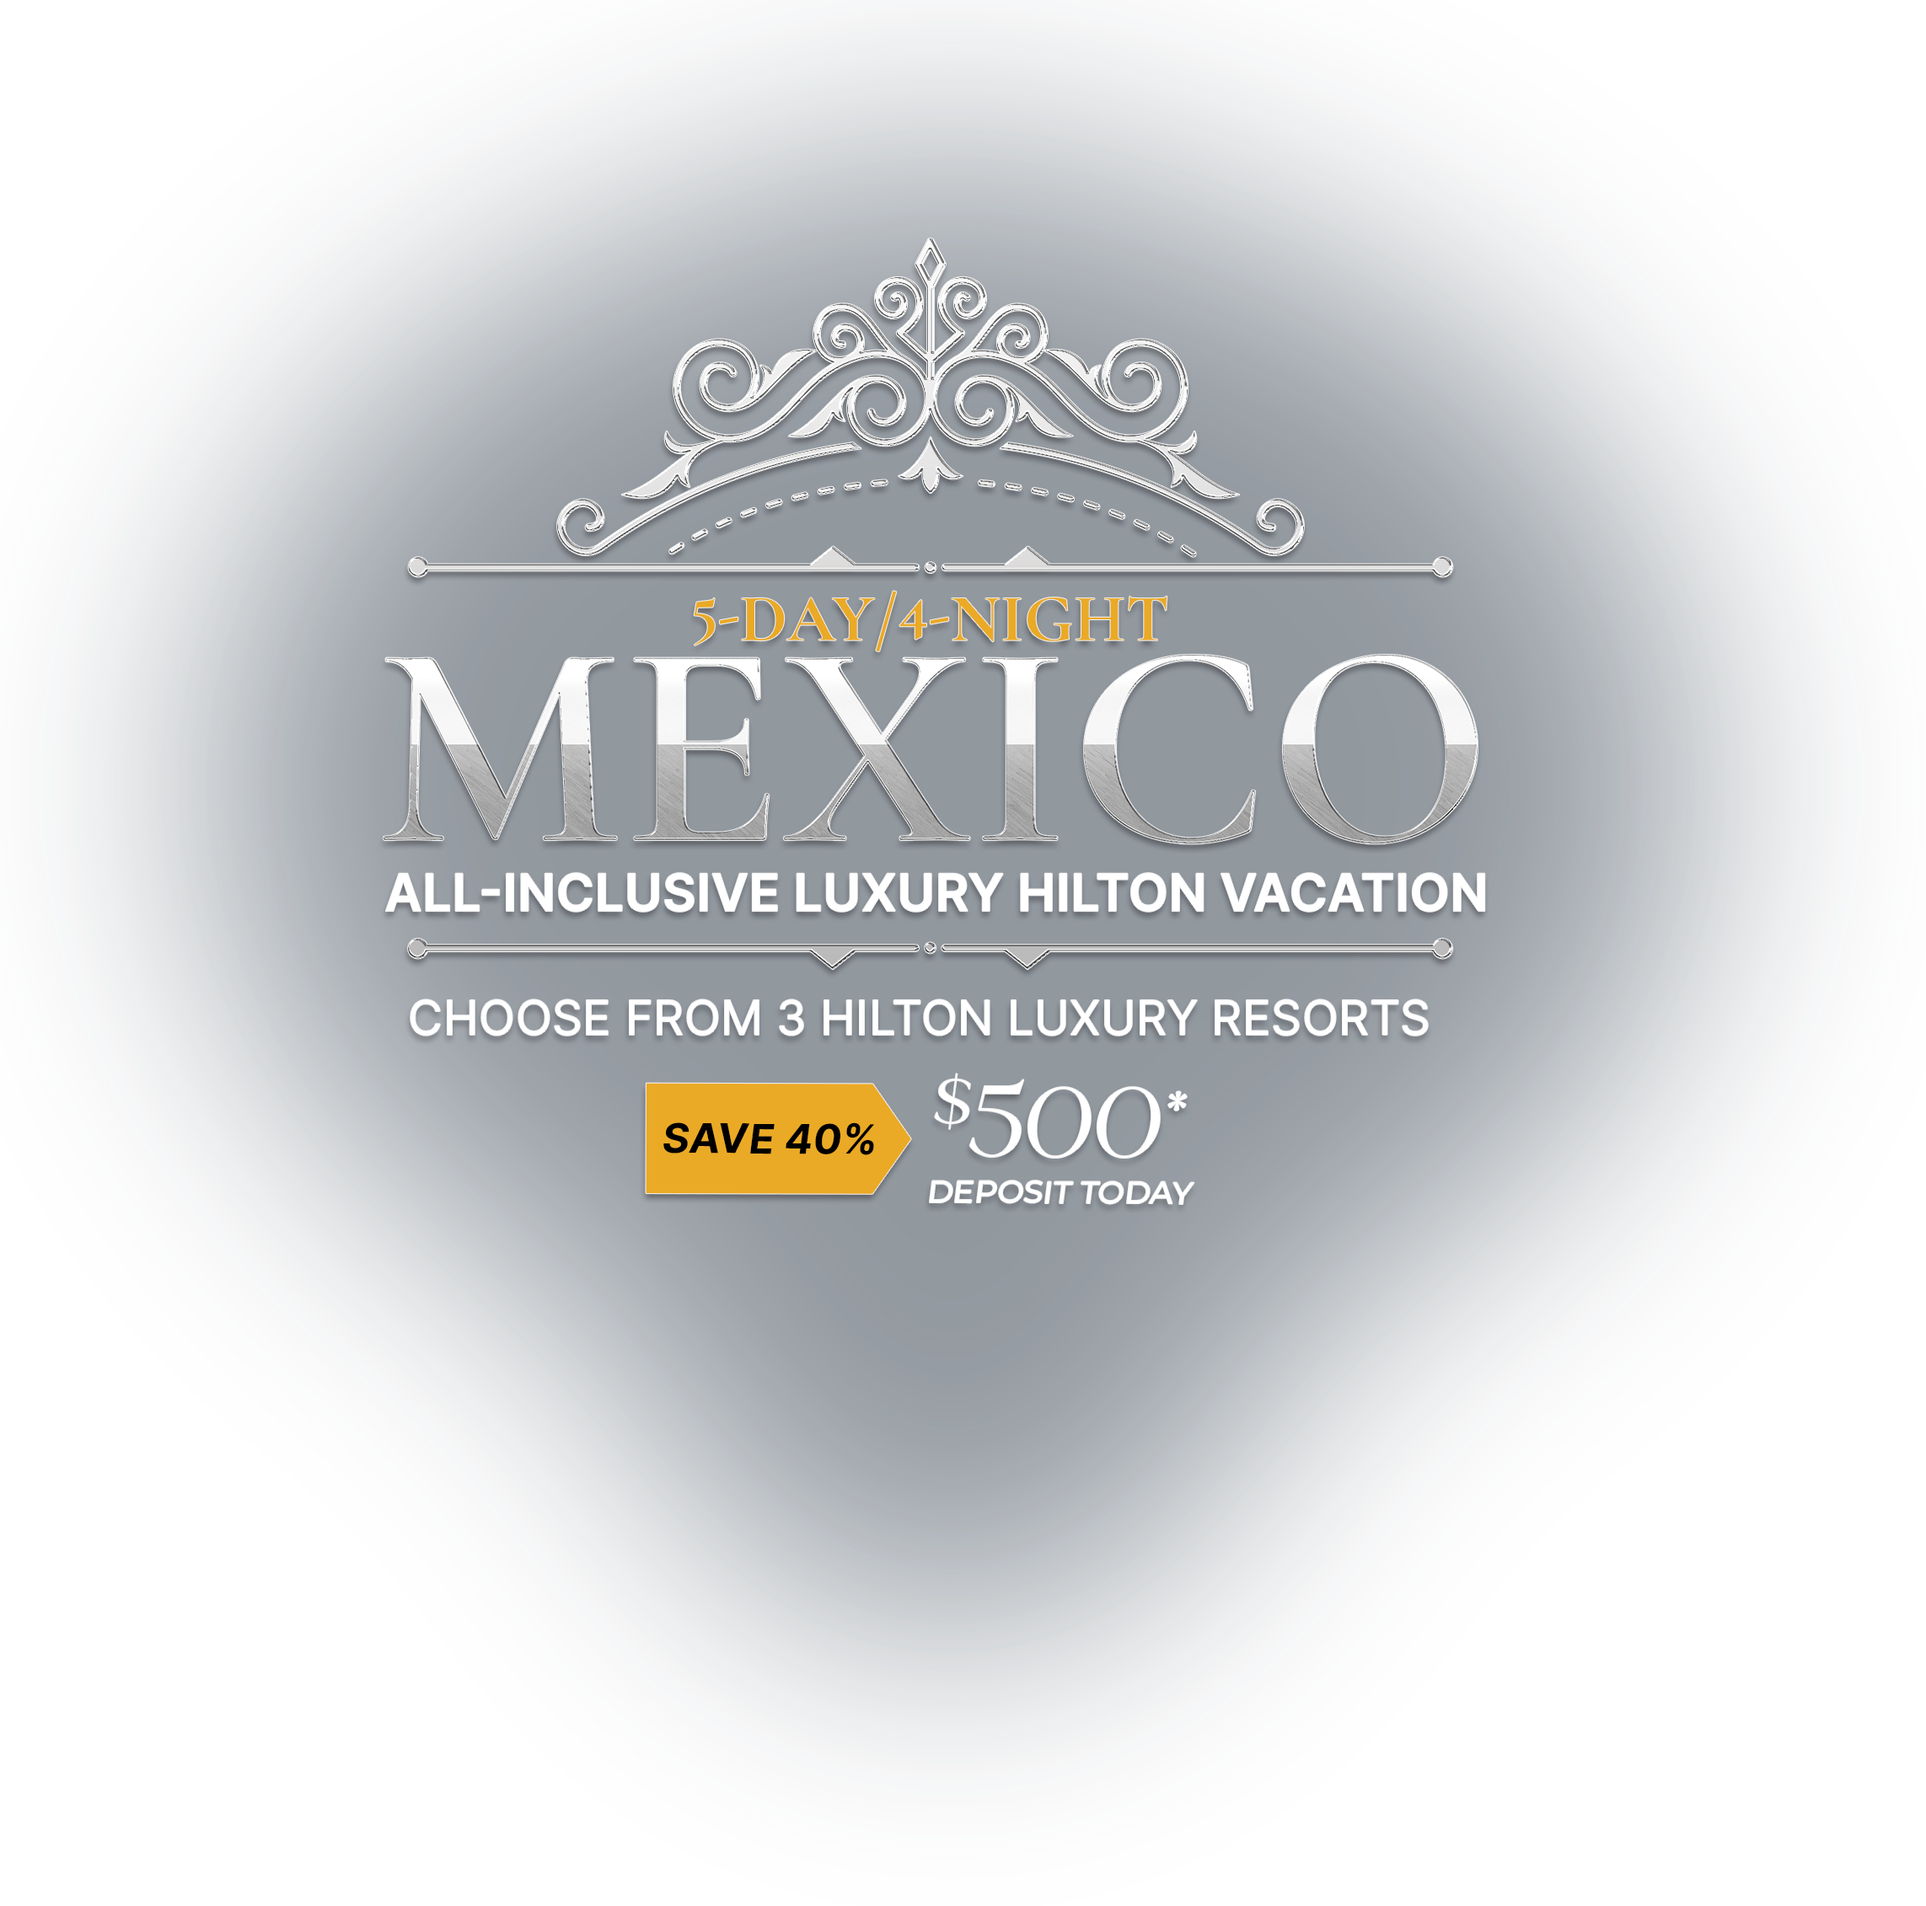
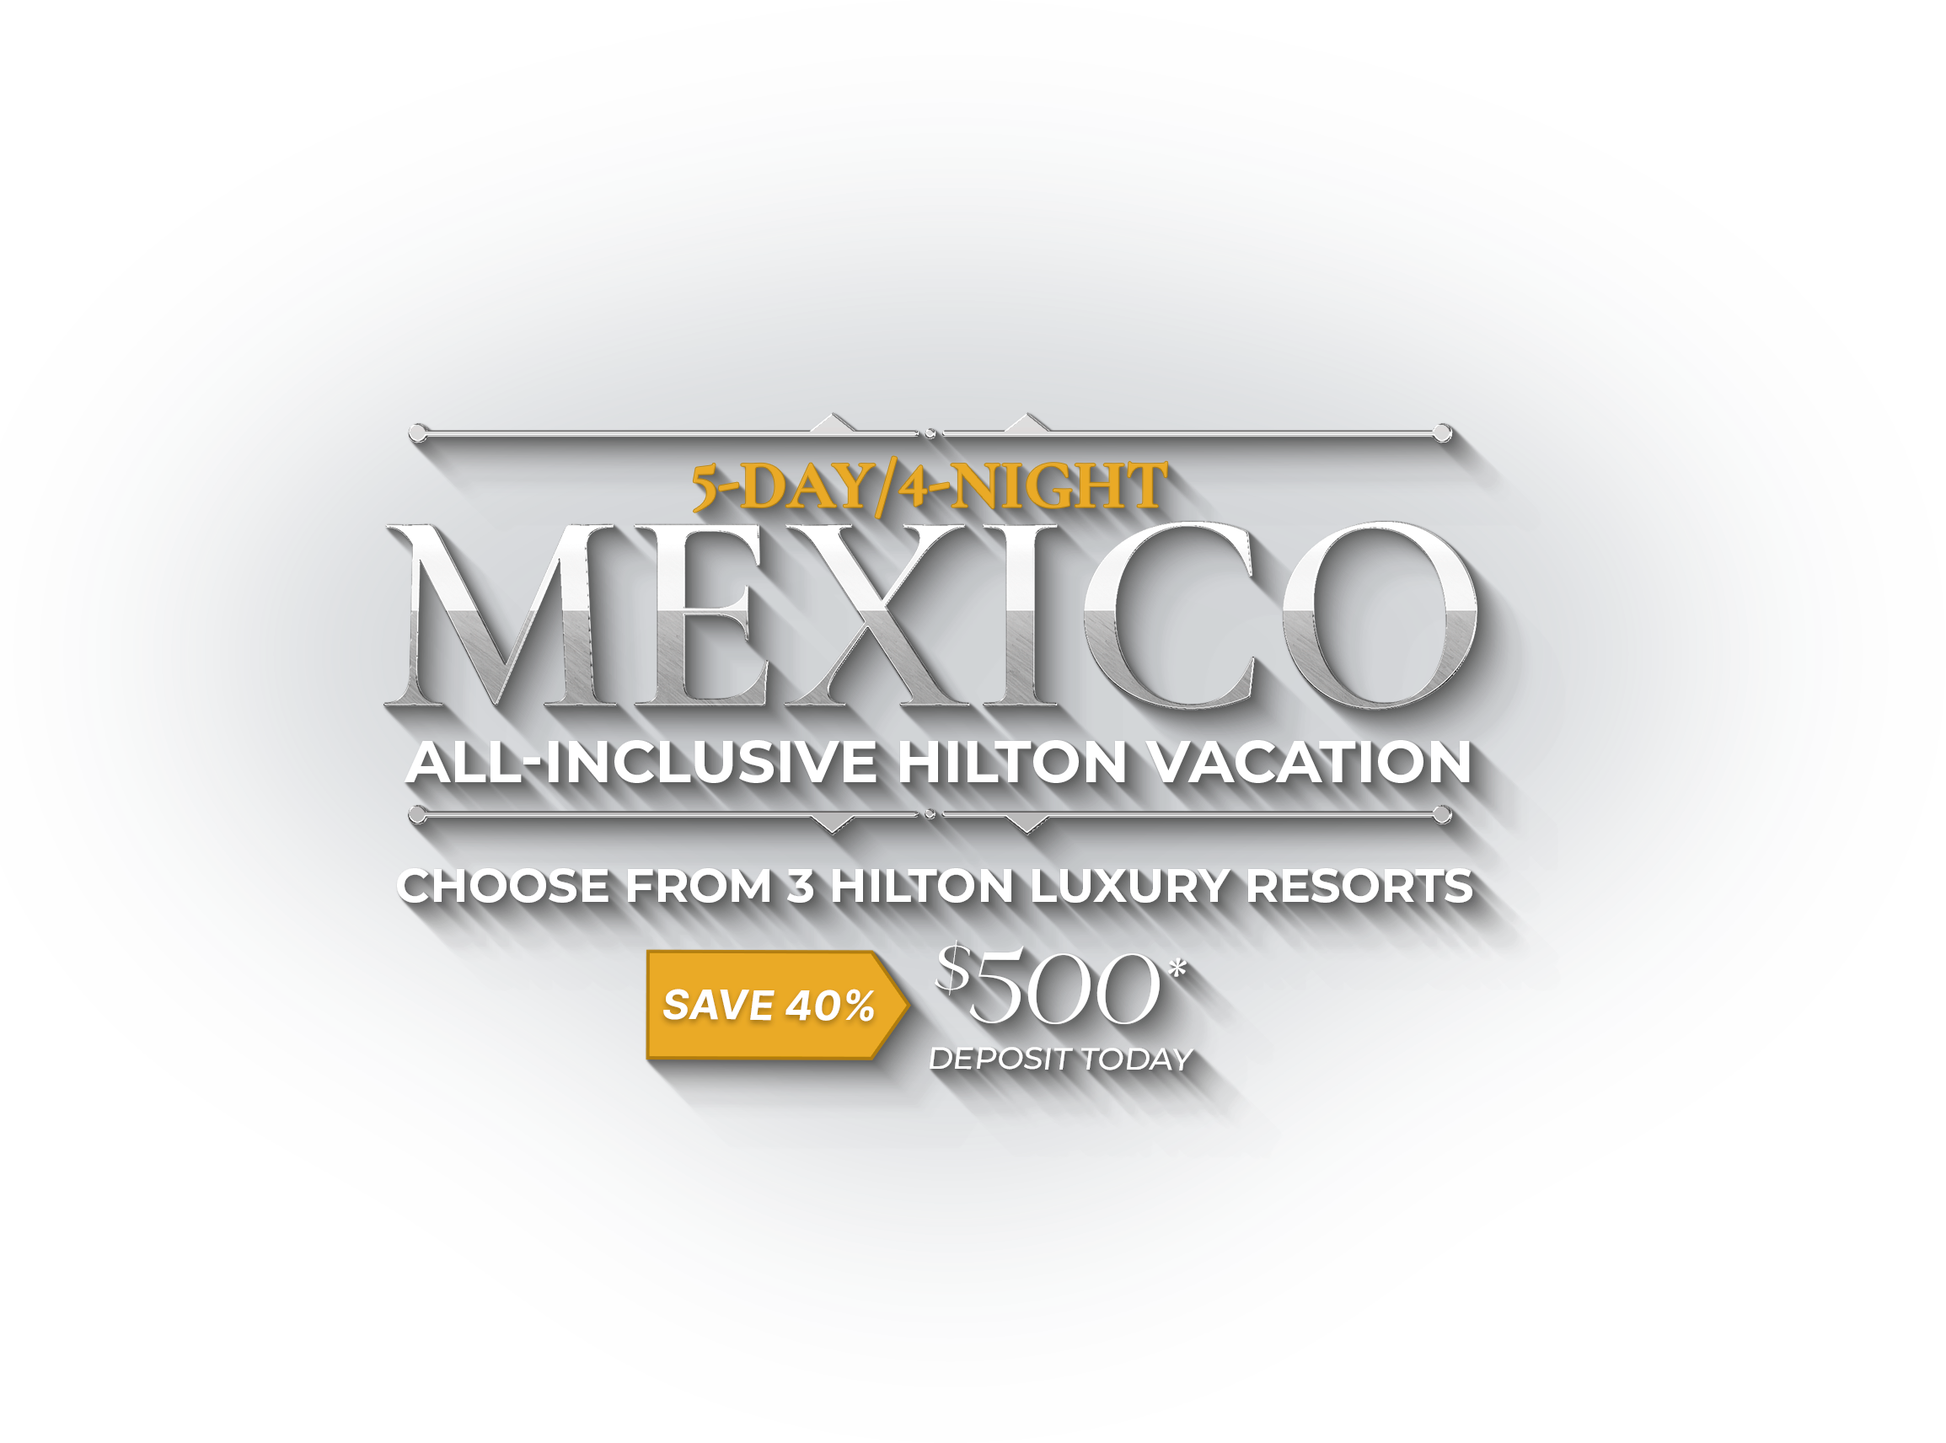
HeroVariant: refine sticker and destination card overlays for mobile and desktop.
Improve hero readability and visual balance by centering mobile destination text, adjusting sticker placement, updating play icon/color treatment, and tightening the mobile booking logo sizing.

Made-with: Cursor

diff --git a/src/components/HeroVariant.tsx b/src/components/HeroVariant.tsx
@@ -62,6 +62,10 @@ function DestinationCard({
         loading="eager"
         className="absolute inset-0 h-full w-full object-cover transition-transform duration-700 ease-out group-hover:scale-110"
       />
+      <div
+        aria-hidden
+        className="pointer-events-none absolute inset-0 z-0 bg-black/45"
+      />
       {addInnerShadow && (
         <div
           aria-hidden
@@ -76,8 +80,8 @@ function DestinationCard({
         className="pointer-events-none absolute inset-x-0 bottom-0 z-0 h-2/5 bg-gradient-to-t from-black/75 via-black/20 to-transparent"
       />
 
-      <div className="relative z-20 mt-auto flex w-full flex-col items-center gap-2 px-fluid-4 pb-fluid-3 pt-fluid-3 text-center text-white transition-transform duration-500 ease-out group-hover:-translate-y-1 lg:pb-fluid-4 lg:pt-fluid-4">
-        <span className="text-balance font-serif text-fluid-base font-semibold leading-tight text-white drop-shadow md:text-fluid-lg lg:text-fluid-xl">
+      <div className="relative z-20 flex h-full w-full flex-col items-center justify-center gap-2 px-fluid-4 pb-fluid-3 pt-fluid-3 text-center text-white transition-transform duration-500 ease-out lg:mt-auto lg:h-auto lg:-translate-y-[78px] lg:justify-start lg:pb-fluid-4 lg:pt-fluid-4 lg:group-hover:-translate-y-[86px]">
+        <span className="text-balance font-sans text-fluid-base font-semibold leading-tight text-white drop-shadow md:text-fluid-lg lg:text-fluid-xl">
           {destination.name}
         </span>
 
@@ -86,7 +90,7 @@ function DestinationCard({
           aria-hidden
           className="mt-1 inline-flex items-center gap-2 transition-transform duration-300 group-hover:scale-105 group-focus-visible:scale-105"
         >
-          <span className="flex h-8 w-8 items-center justify-center rounded-full bg-white/95 text-plum shadow-md ring-1 ring-plum/10 backdrop-blur-sm md:h-9 md:w-9">
+          <span className="flex h-8 w-8 items-center justify-center rounded-full bg-white/95 text-amber shadow-md ring-1 ring-plum/10 backdrop-blur-sm md:h-9 md:w-9">
             <Play className="ml-0.5 h-3.5 w-3.5 fill-current md:h-4 md:w-4" />
           </span>
           <span className="text-fluid-xs font-semibold uppercase tracking-[0.18em] text-white/95 drop-shadow">
@@ -108,23 +112,16 @@ export function HeroVariant() {
 
   return (
     <section className="relative flex flex-col overflow-hidden bg-plum lg:min-h-[800px] lg:overflow-visible">
-      {/* Independent contrast layer: top-only dark gradient sized to the sticker zone.
-          Desktop only — spans cols 1-3 (viewport - 28rem BookingCard track). */}
-      <div
-        className="pointer-events-none absolute left-0 top-0 z-20 hidden h-[28rem] w-[calc(100%-28rem)] bg-gradient-to-b from-black/70 via-black/30 to-transparent xl:h-[36rem] lg:block"
-        aria-hidden
-      />
-
       {/* Independent decorative mexico-10 sticker, sized + positioned over the contrast layer.
           Desktop only — same width as the gradient (cols 1-3). */}
       <div
-        className="pointer-events-none absolute left-0 top-[20px] z-30 hidden w-[calc(100%-28rem)] justify-center xl:top-[10px] lg:flex"
+        className="pointer-events-none absolute inset-y-0 left-0 z-30 hidden w-[calc(100%-28rem)] items-center justify-center lg:flex lg:-translate-y-[126px]"
         aria-hidden
       >
         <img
           src="images/home/mexico-10.png"
           alt=""
-          className="block h-auto w-auto max-w-[46rem] object-contain xl:max-w-[58rem]"
+          className="block h-auto w-auto max-w-[58rem] object-contain xl:max-w-[70rem]"
         />
       </div>
 
@@ -137,16 +134,20 @@ export function HeroVariant() {
               No fixed height: row sizes to the sticker so it never gets cropped. */}
           <div className="relative flex min-h-[32rem] w-full items-center justify-center overflow-hidden px-0 py-fluid-3 md:min-h-[40rem] lg:hidden">
             <img
-              src="images/home/mobile-hero-top-bg.png"
+              src="images/home/MobileHERO-Top.png"
               alt=""
               aria-hidden
               className="absolute inset-0 h-full w-full object-cover"
+            />
+            <div
+              aria-hidden
+              className="pointer-events-none absolute inset-0 bg-black/40"
             />
             <img
               src="images/home/mexico-10.png"
               alt=""
               aria-hidden
-              className="relative z-10 mx-auto my-auto block h-auto w-full max-w-3xl origin-center translate-y-16 scale-[1.35] object-contain md:max-w-5xl md:translate-y-20 md:scale-[1.18]"
+              className="relative z-10 mx-auto my-auto block h-auto w-full max-w-3xl origin-center translate-y-2 scale-[1.35] object-contain md:max-w-5xl md:translate-y-6 md:scale-[1.18]"
             />
           </div>
 

diff --git a/src/components/BookingCard.tsx b/src/components/BookingCard.tsx
@@ -51,7 +51,7 @@ export function BookingCard({
 
       <div className="flex flex-col gap-3 p-4 pt-3 md:gap-4 md:p-6 md:pt-4">
         <img
-          className="mx-auto block h-auto w-full max-w-[220px] object-contain object-center transition-transform duration-300 hover:scale-[1.02]"
+          className="mx-auto block h-auto w-full max-w-[140px] object-contain object-center transition-transform duration-300 hover:scale-[1.02] md:max-w-[180px]"
           src="images/shared/PHH-LOGO.svg"
           alt={RESORT_DISPLAY_NAME}
           width={500}
